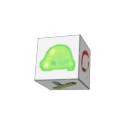
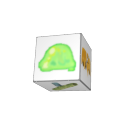
v.1.20.0 - Reworked 'High Heels', 'Energized Die' and 'Black Cloud'.

Changed region(s): [[0.25, 0.25, 0.7188, 0.7188]]

diff --git a/src/main/java/energizedSpire/relics/EnergizedDie.java b/src/main/java/energizedSpire/relics/EnergizedDie.java
@@ -4,16 +4,12 @@ import basemod.abstracts.CustomRelic;
 import com.badlogic.gdx.graphics.Texture;
 import com.evacipated.cardcrawl.mod.stslib.relics.BeforeRenderIntentRelic;
 import com.megacrit.cardcrawl.actions.common.RelicAboveCreatureAction;
-import com.megacrit.cardcrawl.cards.AbstractCard;
-import com.megacrit.cardcrawl.core.CardCrawlGame;
 import com.megacrit.cardcrawl.core.Settings;
 import com.megacrit.cardcrawl.dungeons.AbstractDungeon;
 import com.megacrit.cardcrawl.helpers.ImageMaster;
 import com.megacrit.cardcrawl.helpers.PowerTip;
-import com.megacrit.cardcrawl.localization.RelicStrings;
 import com.megacrit.cardcrawl.monsters.AbstractMonster;
 import com.megacrit.cardcrawl.powers.StrengthPower;
-import com.megacrit.cardcrawl.relics.VelvetChoker;
 import com.megacrit.cardcrawl.rooms.AbstractRoom;
 import com.megacrit.cardcrawl.rooms.TreasureRoom;
 import com.megacrit.cardcrawl.vfx.cardManip.ShowCardAndObtainEffect;
@@ -28,16 +24,14 @@ public class EnergizedDie extends CustomRelic implements BeforeRenderIntentRelic
     public static final String IMG_ID_ECTOPLASM = "EnergizedDieEctoplasm";
     public static final String IMG_ID_RUNIC_DOME = "EnergizedDieRunicDome";
     public static final String IMG_ID_PHILOSOPHERS_STONE = "EnergizedDiePhilosophersStone";
-    public static final String IMG_ID_VELVET_CHOKER = "EnergizedDieVelvetChoker";
+    public static final String IMG_ID_BUSTED_CROWN = "EnergizedDieBustedCrown";
     public static final Texture IMG_CURSED_KEY = ImageMaster.loadImage(EnergizedSpireMod.getRelicImagePath(IMG_ID_CURSED_KEY));
     public static final Texture IMG_SOZU = ImageMaster.loadImage(EnergizedSpireMod.getRelicImagePath(IMG_ID_SOZU));
     public static final Texture IMG_ECTOPLASM = ImageMaster.loadImage(EnergizedSpireMod.getRelicImagePath(IMG_ID_ECTOPLASM));
     public static final Texture IMG_RUNIC_DOME = ImageMaster.loadImage(EnergizedSpireMod.getRelicImagePath(IMG_ID_RUNIC_DOME));
     public static final Texture IMG_PHILOSOPHER_STONE = ImageMaster.loadImage(EnergizedSpireMod.getRelicImagePath(IMG_ID_PHILOSOPHERS_STONE));
-    public static final Texture IMG_VELVET_CHOKER = ImageMaster.loadImage(EnergizedSpireMod.getRelicImagePath(IMG_ID_VELVET_CHOKER));
+    public static final Texture IMG_BUSTED_CROWN = ImageMaster.loadImage(EnergizedSpireMod.getRelicImagePath(IMG_ID_BUSTED_CROWN));
     public static final Texture OUTLINE = ImageMaster.loadImage(EnergizedSpireMod.getRelicOutlineImagePath(ID));
-
-    private static final RelicStrings velvetChokerStrings = CardCrawlGame.languagePack.getRelicStrings(VelvetChoker.ID);
 
     private EnergizedDieEffect currentEffect;
     private boolean obtained;
@@ -92,45 +86,14 @@ public class EnergizedDie extends CustomRelic implements BeforeRenderIntentRelic
             }
             AbstractDungeon.onModifyPower();
         }
-        if (isCurrentEffectEqualTo(EnergizedDieEffect.VELVET_CHOKER)) {
-            this.counter = 0;
-        }
     }
 
     @Override
-    public void atTurnStart() {
-        if (isCurrentEffectEqualTo(EnergizedDieEffect.VELVET_CHOKER)) {
-            this.counter = 0;
+    public int changeNumberOfCardsInReward(int numberOfCards) {
+        if (isCurrentEffectEqualTo(EnergizedDieEffect.BUSTED_CROWN)) {
+            return numberOfCards - 2;
         }
-    }
-
-    @Override
-    public void onPlayCard(AbstractCard card, AbstractMonster m) {
-        if (isCurrentEffectEqualTo(EnergizedDieEffect.VELVET_CHOKER) && this.counter < 6) {
-            this.counter++;
-            if (this.counter >= 6) {
-                flash();
-            }
-        }
-    }
-
-    @Override
-    public boolean canPlay(AbstractCard card) {
-        if (isCurrentEffectEqualTo(EnergizedDieEffect.VELVET_CHOKER)) {
-            if (this.counter >= 6) {
-                card.cantUseMessage = (velvetChokerStrings.DESCRIPTIONS[3] + 6 + velvetChokerStrings.DESCRIPTIONS[1]);
-                return false;
-            }
-            return true;
-        }
-        return super.canPlay(card);
-    }
-
-    @Override
-    public void onVictory() {
-        if (isCurrentEffectEqualTo(EnergizedDieEffect.VELVET_CHOKER)) {
-            this.counter = -1;
-        }
+        return numberOfCards;
     }
 
     @Override
@@ -156,7 +119,7 @@ public class EnergizedDie extends CustomRelic implements BeforeRenderIntentRelic
                 currentEffect = EnergizedDieEffect.PHILOSOPHERS_STONE;
                 break;
             case 6:
-                currentEffect = EnergizedDieEffect.VELVET_CHOKER;
+                currentEffect = EnergizedDieEffect.BUSTED_CROWN;
                 break;
         }
         setImageBasedOnCurrentEffect();
@@ -180,8 +143,8 @@ public class EnergizedDie extends CustomRelic implements BeforeRenderIntentRelic
             case PHILOSOPHERS_STONE:
                 setTextureOutline(IMG_PHILOSOPHER_STONE, OUTLINE);
                 break;
-            case VELVET_CHOKER:
-                setTextureOutline(IMG_VELVET_CHOKER, OUTLINE);
+            case BUSTED_CROWN:
+                setTextureOutline(IMG_BUSTED_CROWN, OUTLINE);
                 break;
         }
     }
@@ -207,7 +170,7 @@ public class EnergizedDie extends CustomRelic implements BeforeRenderIntentRelic
                 case PHILOSOPHERS_STONE:
                     this.tips.add(new PowerTip(DESCRIPTIONS[1], DESCRIPTIONS[6]));
                     break;
-                case VELVET_CHOKER:
+                case BUSTED_CROWN:
                     this.tips.add(new PowerTip(DESCRIPTIONS[1], DESCRIPTIONS[7]));
                     break;
             }

diff --git a/src/main/java/energizedSpire/relics/HighHeels.java b/src/main/java/energizedSpire/relics/HighHeels.java
@@ -3,14 +3,12 @@ package energizedSpire.relics;
 import basemod.abstracts.CustomRelic;
 import basemod.helpers.CardPowerTip;
 import com.badlogic.gdx.graphics.Texture;
-import com.megacrit.cardcrawl.actions.common.ApplyPowerAction;
 import com.megacrit.cardcrawl.actions.common.MakeTempCardInDrawPileAction;
 import com.megacrit.cardcrawl.actions.common.RelicAboveCreatureAction;
 import com.megacrit.cardcrawl.cards.curses.Clumsy;
 import com.megacrit.cardcrawl.dungeons.AbstractDungeon;
 import com.megacrit.cardcrawl.helpers.ImageMaster;
 import com.megacrit.cardcrawl.helpers.PowerTip;
-import com.megacrit.cardcrawl.powers.DexterityPower;
 import energizedSpire.EnergizedSpireMod;
 
 public class HighHeels extends CustomRelic {
@@ -19,8 +17,7 @@ public class HighHeels extends CustomRelic {
     public static final Texture IMG = ImageMaster.loadImage(EnergizedSpireMod.getRelicImagePath(ID));
     public static final Texture OUTLINE = ImageMaster.loadImage(EnergizedSpireMod.getRelicOutlineImagePath(ID));
 
-    public static final int DEXTERITY_TO_LOSE = 1;
-    public static final int NUMBER_OF_CLUMSY_TO_SHUFFLE = 1;
+    public static final int NUMBER_OF_CLUMSY_TO_SHUFFLE = 2;
 
     public HighHeels() {
         super(ID, IMG, OUTLINE, RelicTier.BOSS, LandingSound.MAGICAL);
@@ -31,7 +28,6 @@ public class HighHeels extends CustomRelic {
     public void atBattleStart() {
         this.flash();
         AbstractDungeon.actionManager.addToBottom(new RelicAboveCreatureAction(AbstractDungeon.player, this));
-        AbstractDungeon.actionManager.addToBottom(new ApplyPowerAction(AbstractDungeon.player, AbstractDungeon.player, new DexterityPower(AbstractDungeon.player, -DEXTERITY_TO_LOSE), -DEXTERITY_TO_LOSE));
         AbstractDungeon.actionManager.addToBottom(new MakeTempCardInDrawPileAction(new Clumsy(), NUMBER_OF_CLUMSY_TO_SHUFFLE, true, true));
     }
 
@@ -47,7 +43,7 @@ public class HighHeels extends CustomRelic {
 
     @Override
     public String getUpdatedDescription() {
-        return DESCRIPTIONS[0] + DEXTERITY_TO_LOSE + DESCRIPTIONS[1] + NUMBER_OF_CLUMSY_TO_SHUFFLE + DESCRIPTIONS[2];
+        return DESCRIPTIONS[0] + NUMBER_OF_CLUMSY_TO_SHUFFLE + DESCRIPTIONS[1];
     }
 
     public void refreshTips() {

diff --git a/src/main/java/energizedSpire/patches/BlackCloudPatch.java b/src/main/java/energizedSpire/patches/BlackCloudPatch.java
@@ -1,0 +1,40 @@
+package energizedSpire.patches;
+
+import com.evacipated.cardcrawl.modthespire.lib.*;
+import com.megacrit.cardcrawl.actions.AbstractGameAction;
+import com.megacrit.cardcrawl.actions.GameActionManager;
+import com.megacrit.cardcrawl.actions.common.EnableEndTurnButtonAction;
+import com.megacrit.cardcrawl.actions.watcher.ChangeStanceAction;
+import com.megacrit.cardcrawl.dungeons.AbstractDungeon;
+import com.megacrit.cardcrawl.stances.NeutralStance;
+import energizedSpire.relics.BlackCloud;
+import energizedSpire.stances.DepressionStance;
+import javassist.CtBehavior;
+
+@SpirePatch(clz = GameActionManager.class, method = "getNextAction")
+public class BlackCloudPatch {
+
+    @SpireInsertPatch(locator = Locator.class)
+    public static void Insert(GameActionManager gameActionManager) {
+        if (AbstractDungeon.player.hasRelic(BlackCloud.ID)) {
+            gameActionManager.addToBottom(new AbstractGameAction() {
+                @Override
+                public void update() {
+                    this.isDone = true;
+                    if(AbstractDungeon.player.stance.ID.equals(NeutralStance.STANCE_ID)){
+                        AbstractDungeon.actionManager.addToBottom(new ChangeStanceAction(new DepressionStance()));
+                    }
+                }
+            });
+        }
+    }
+
+    private static class Locator extends SpireInsertLocator {
+        @Override
+        public int[] Locate(CtBehavior method) throws Exception {
+            Matcher matcher = new Matcher.NewExprMatcher(EnableEndTurnButtonAction.class);
+            return LineFinder.findInOrder(method, matcher);
+        }
+    }
+
+}

diff --git a/src/main/java/energizedSpire/stances/DepressionStance.java b/src/main/java/energizedSpire/stances/DepressionStance.java
@@ -2,6 +2,7 @@ package energizedSpire.stances;
 
 import com.badlogic.gdx.Gdx;
 import com.badlogic.gdx.math.MathUtils;
+import com.megacrit.cardcrawl.cards.DamageInfo;
 import com.megacrit.cardcrawl.core.CardCrawlGame;
 import com.megacrit.cardcrawl.core.Settings;
 import com.megacrit.cardcrawl.dungeons.AbstractDungeon;
@@ -19,6 +20,22 @@ public class DepressionStance extends AbstractStance {
         this.ID = STANCE_ID;
         this.name = stanceString.NAME;
         this.updateDescription();
+    }
+
+    @Override
+    public float atDamageGive(float damage, DamageInfo.DamageType type) {
+        if (type == DamageInfo.DamageType.NORMAL) {
+            return damage * 0.75F;
+        }
+        return damage;
+    }
+
+    @Override
+    public float atDamageReceive(float damage, DamageInfo.DamageType type) {
+        if (type == DamageInfo.DamageType.NORMAL) {
+            return damage * 1.50F;
+        }
+        return damage;
     }
 
     @Override

diff --git a/src/main/java/energizedSpire/enums/EnergizedDieEffect.java b/src/main/java/energizedSpire/enums/EnergizedDieEffect.java
@@ -6,5 +6,5 @@ public enum EnergizedDieEffect {
     ECTOPLASM,
     RUNIC_DOME,
     PHILOSOPHERS_STONE,
-    VELVET_CHOKER
+    BUSTED_CROWN
 }
